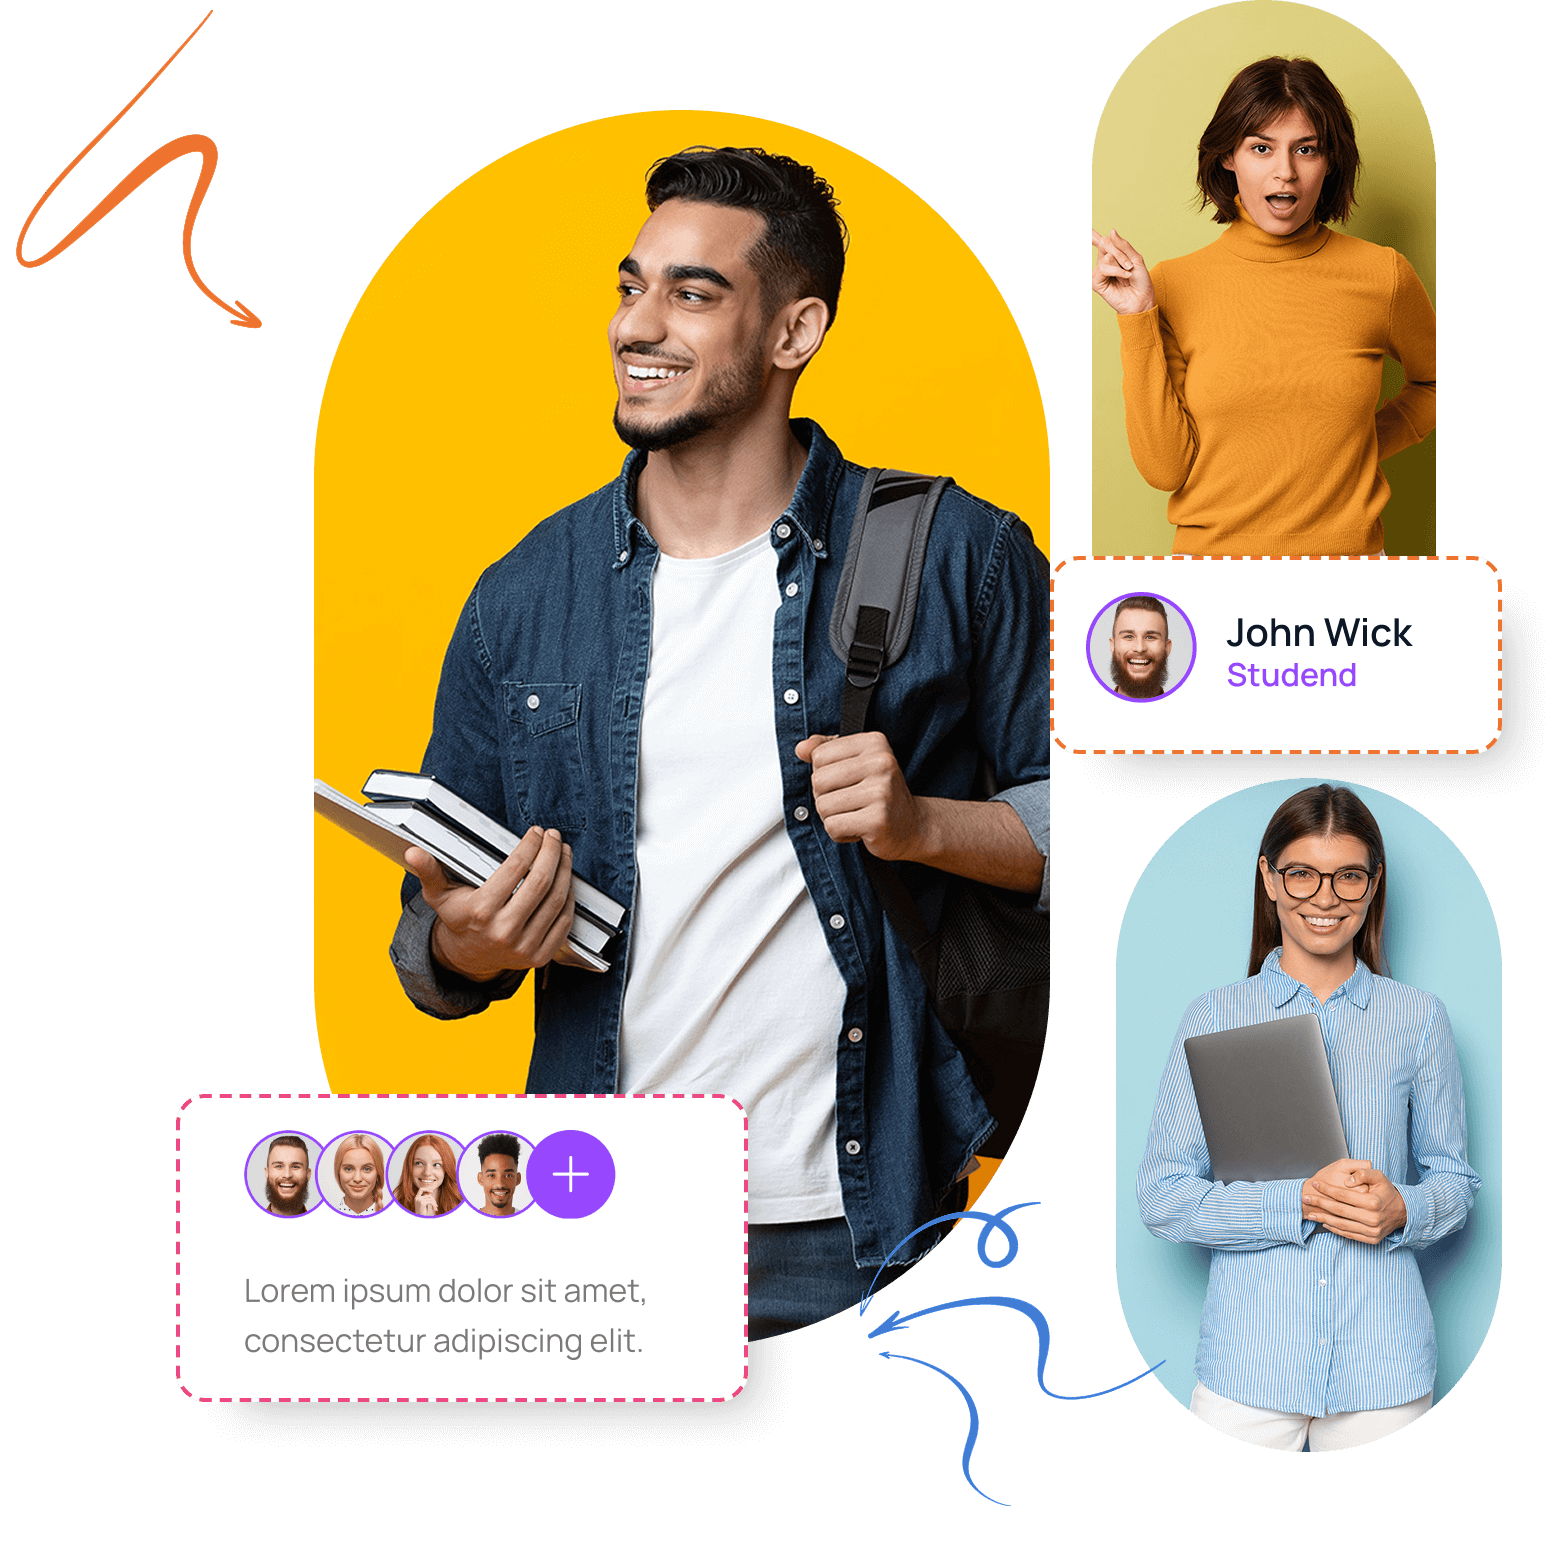
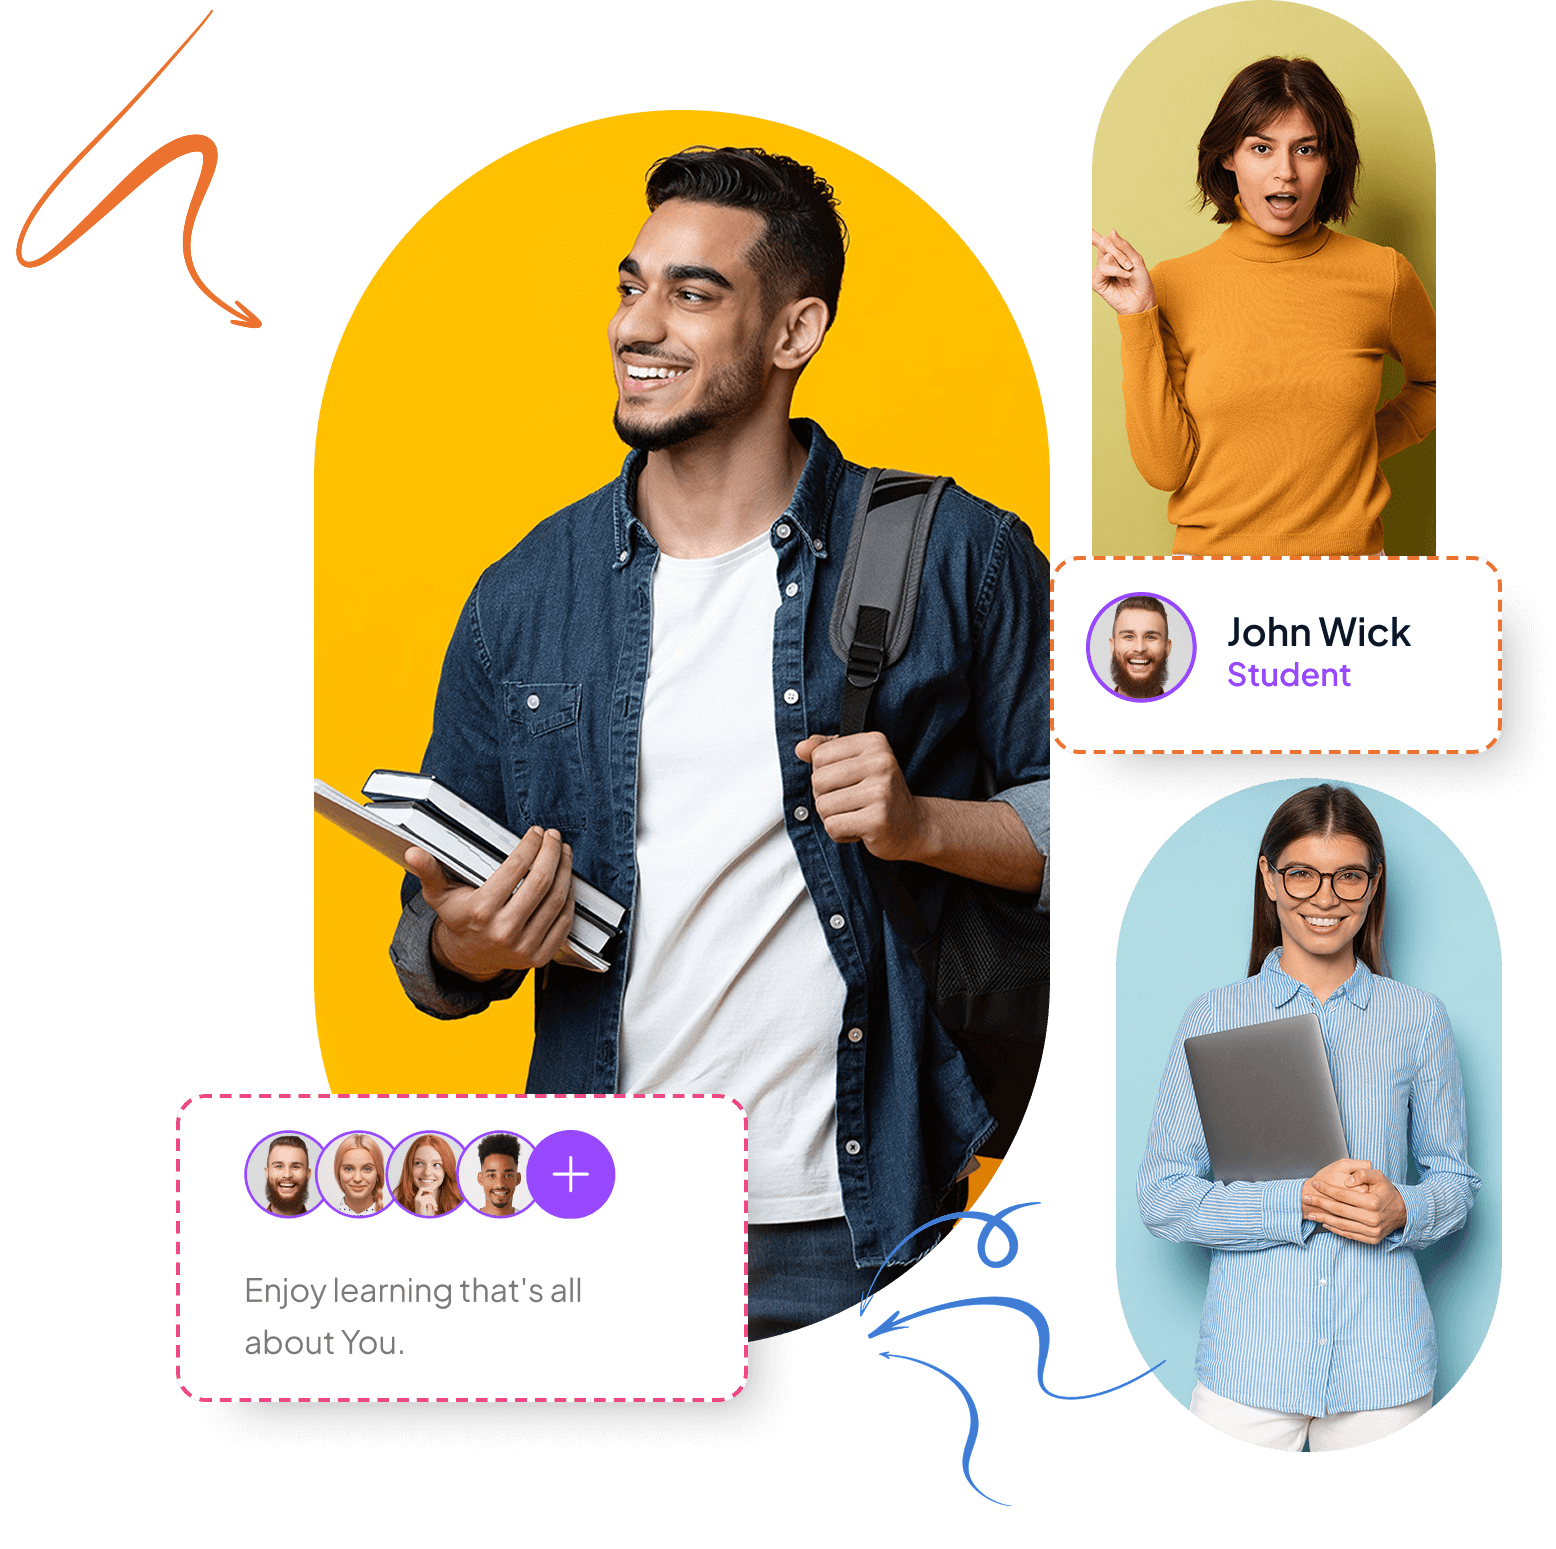
fix: all copywriting excep footer and discount and form tutor register

Changed region(s): [[0.1542, 0.8057, 0.401, 0.8986], [0.7712, 0.4028, 0.8946, 0.4648]]

diff --git a/constants/en.js b/constants/en.js
@@ -2,15 +2,15 @@
  * @Author: danteclericuzio
  * @Date: 2025-03-11 13:47:53
  * @Last Modified by: danteclericuzio
- * @Last Modified time: 2025-04-18 21:35:04
+ * @Last Modified time: 2025-04-24 23:54:08
  */
 
 export const Home = {
     hero: {
         title1: 'Learn Everyday & Any New Language Online with Top',
         title2: 'Instructors.',
-        subtitle: 'Language learning made easy and fun—tailored just for you!',
-        placeholder: 'Try English Tutor',
+        subtitle: 'Language learning made easy and fun Personalized just for you!',
+        placeholder: 'Try “Learn English”',
         buttonSearch: 'Search Now'
     },
     carousel: {
@@ -43,15 +43,15 @@ export const Home = {
     },
     looking: {
         title: 'Teachers & Students',
-        subtitle: 'What you looking for?',
-        teachTitle: 'Do you want to teach here?',
-        learnTitle: 'Do you want to learn here?',
-        teachDesc: 'Lorem ipsum dolor sit amet, consetetur sadipscing elitr, sed di nonumy eirmod tempor invidunt ut labore et dolore magn aliq erat.',
-        learnDesc: 'Lorem ipsum dolor sit amet, consetetur sadipscing elitr, sed di nonumy eirmod tempor invidunt ut labore et dolore magn aliq erat.',
+        subtitle: 'What are you waiting for?',
+        teachTitle: 'Apply as Instructors',
+        learnTitle: 'Apply as Students',
+        teachDesc: "Grow your reach and make a real difference in student's lives by teaching on our platform, benefiting from our supportive community and expanding your professional horizons.",
+        learnDesc: "Unlock your potential with our platform designed for student growth, offering expert guidance to make a real impact in your future studies and career through confident language skills.",
         registerButton: 'Register Now'
     },
     category: {
-        title: 'Browse top category',
+        title: 'Browse Top Categories',
         english: {
             title: 'English',
             nums: '63,476 Courses'
@@ -129,11 +129,13 @@ export const Home = {
         oneHeadingBefore: "Find a tutor",
         oneHeadingHighlight: "",
         oneHeadingAfter: "",
-        oneDesc: "Browse tutors and see their background, experience and student feedback. And book your class.",
+        oneDesc: "Browse tutors and see their backgrounds, experiences, and student's feedback. And book your class.",
         twoHeadingBefore: "Choose a time and book a class",
         twoHeadingHighlight: "",
         twoHeadingAfter: "",
-        twoDesc: "Once you’ve bought a lesson, choose a time slot and book your class. Cancel or reschedule up to 12 hours before your class.",
+        twoDescBefore: "Once you’ve bought a lesson, choose a time slot and book your class. Cancel or reschedule up to",
+        twoDescHighlight: " 12 hours ",
+        twoDescAfter: "before your class.",
         threeHeadingBefore: "Learn when you want, from where you want",
         threeHeadingHighlight: "",
         threeHeadingAfter: "",
@@ -159,23 +161,23 @@ export const Home = {
         teacherThree: 'Kevin Duncan- IELTS Specialist',
     },
     heroBottom: {
-        title: 'You can be a great tutor',
+        title: 'Be a Great Teacher At Lingo Foundry',
         list: [
-            'Set your own prices',
-            'Be your own boss',
-            'Work from home, and on your schedule'
+            {title: 'Global Reach', desc: 'Connect with students from all over the world'},
+            {title: 'Flexible Work Hours', desc: 'Work from home, and on your schedule'},
+            {title: 'Competitive Earnings', desc: 'Set your own prices, and be your own boss'},
         ],
-        button: 'Join us'
+        button: 'Apply to teach'
     }
 }
 
 export const FindTutor = {
     hero: {
-        title1: 'Online Tutoring or',
-        title2: 'Tutors Near',
-        title3: 'Me, Classes',
-        subtitle: 'Study language with a teacher who is just focused on you!',
-        placeholder: 'Try English Tutor',
+        title1: 'Online Tutoring,',
+        title2: 'Tutors Near Me,',
+        title3: 'and Classes',
+        subtitle: 'Your dedicated language teacher, your path to fluency.',
+        placeholder: 'Try “Learn English”',
         buttonSearch: 'Search Now'
     },
     faq: {
@@ -224,7 +226,7 @@ export const FooterData = {
         contactUs: 'Contact Us',
         quickLinks: 'Quick Links',
         feature: 'Features',
-        address: 'Lorem ipsum dolor sit amet, consetetur sadip scing elitr, seddi nonumy eirmod tempor invi dunt ut labore lorem ipsum.'
+        address: 'Language learning platform made easy & fun Connecting Top Instructors with students'
     },
     list1: [
         {
@@ -375,15 +377,19 @@ export const FooterData = {
         },
         {
             href: '/',
-            title: 'Explore Pages'
+            title: 'Explore out Tutors'
         },
         {
             href: '/',
-            title: 'Our Services'
+            title: 'Online Tutoring FAQ'
         },
         {
             href: '/',
-            title: 'Destinations'
+            title: 'Hear What They Said'
+        },
+        {
+            href: '/',
+            title: 'Why Choose Lingo Foundry?'
         }
     ],
     features: [

diff --git a/components/organisms/tutor-detail.js b/components/organisms/tutor-detail.js
@@ -2,10 +2,11 @@
  * @Author: danteclericuzio
  * @Date: 2025-03-13 13:17:29
  * @Last Modified by: danteclericuzio
- * @Last Modified time: 2025-04-14 23:10:35
+ * @Last Modified time: 2025-04-25 00:06:11
  */
 
 "use client";
+import { RiErrorWarningLine } from "react-icons/ri";
 import {toast} from "react-toastify";
 import {useParams, useRouter} from "next/navigation";
 import React, {useState} from "react";
@@ -145,7 +146,7 @@ export default function TutorDetail() {
     return (
         <div className="lingo-container flex flex-col lg:flex-row pt-[80px] sm:pt-[103.61px]">
             {/* cart modal */}
-            {openCart && (
+            {!openCart && (
                 <div className="fixed inset-0 bg-[#00000070] flex items-center justify-center z-50" onClose={handleOpenCart}>
                     <div className="bg-white rounded-[8px] p-6 shadow-lg flex flex-col">
                         <span className="text-[24px] font-semibold mb-4">Add to Cart</span>
@@ -156,10 +157,12 @@ export default function TutorDetail() {
                                 <span className="text-[16px] font-medium">Subject</span>
                                 <span className="text-[16px] font-medium ml-[12px]">Level</span>
                                 <span className="text-[16px] font-medium ml-[36px]">Session</span>
+                                <span className="text-[16px] font-medium ml-[24px]">Discount</span>
                             </div>
                             {languageLevel.map((data, index) => {
                                 const bgColor = bgColors[index % bgColors.length];
                                 const sessions   = sessionsByIndex[index] ?? data.minSession;
+                                const discount = sessions >= 10 ? '10' : '0';
                                 const handleMinus = () => {
                                     if (sessions > data.minSession) {
                                       changeSessions(index, -1);
@@ -193,10 +196,19 @@ export default function TutorDetail() {
                                                 +
                                             </button>
                                         </div>
+                                        <div className="flex items-center border rounded">
+                                            <input type="text" value={`${discount} %`} readOnly className="w-[85px] text-center outline-none"/>
+                                        </div>
                                     </div>
                                 )
                             })}
                         </div>
+                        {selectedIndexes.length === 0 && (
+                            <div className="flex items-center gap-2 mb-4">
+                                <RiErrorWarningLine className="text-[#E35D33]"/>
+                                <span>Please select at least one subject</span>
+                            </div>
+                        )}
                         <div className="flex justify-center gap-4">
                             <button
                                 onClick={handleOpenCart}
@@ -205,8 +217,12 @@ export default function TutorDetail() {
                                 Cancel
                             </button>
                             <button
+                                disabled={selectedIndexes.length === 0}
                                 onClick={handleAddToCart}
-                                className="cursor-pointer rounded-[8px] text-[18px] font-semibold text-white justify-center items-center flex py-[10px] w-full bg-[#E35D33]"
+                                className={`
+                                    cursor-pointer rounded-[8px] text-[18px] font-semibold text-white justify-center items-center flex py-[10px] w-full
+                                    ${selectedIndexes.length === 0 ? "opacity-50 cursor-not-allowed bg-gray-500" : "bg-[#E35D33] "}
+                                    `}
                             >
                                 Yes, add it
                             </button>

diff --git a/components/organisms/footer.js b/components/organisms/footer.js
@@ -2,7 +2,7 @@
  * @Author: danteclericuzio
  * @Date: 2025-03-11 13:48:30
  * @Last Modified by: danteclericuzio
- * @Last Modified time: 2025-04-18 21:39:13
+ * @Last Modified time: 2025-04-24 23:41:59
  */
 
 import { FooterData } from '@/constants/en'
@@ -107,20 +107,6 @@ export default function Footer() {
                             </div>
                         </div>
                         <div className='flex flex-col text-[14px] md:text-[16px]'>
-                            <span className='mb-[15px] md:mb-[35px] font-semibold'>{title.contactUs}</span>
-                            {contactUs.map((item, index) => {
-                                return (
-                                    <Link
-                                        key={index} 
-                                        href={item.href}
-                                        className='cursor-pointer mb-[12px] text-[#A3A3A3]'
-                                    >
-                                        {item.title}
-                                    </Link>
-                                )}
-                            )}
-                        </div>
-                        <div className='flex flex-col text-[14px] md:text-[16px]'>
                             <span className='mb-[15px] md:mb-[35px] font-semibold'>{title.quickLinks}</span>
                             {quickLinks.map((item, index) => {
                                 return (
@@ -137,6 +123,20 @@ export default function Footer() {
                         <div className='flex flex-col text-[14px] md:text-[16px]'>
                             <span className='mb-[15px] md:mb-[35px] font-semibold'>{title.feature}</span>
                             {features.map((item, index) => {
+                                return (
+                                    <Link
+                                        key={index} 
+                                        href={item.href}
+                                        className='cursor-pointer mb-[12px] text-[#A3A3A3]'
+                                    >
+                                        {item.title}
+                                    </Link>
+                                )}
+                            )}
+                        </div>
+                        <div className='flex flex-col text-[14px] md:text-[16px]'>
+                            <span className='mb-[15px] md:mb-[35px] font-semibold'>{title.contactUs}</span>
+                            {contactUs.map((item, index) => {
                                 return (
                                     <Link
                                         key={index} 

diff --git a/components/organisms/hero-bottom.js b/components/organisms/hero-bottom.js
@@ -2,7 +2,7 @@
  * @Author: danteclericuzio
  * @Date: 2025-03-15 16:47:13
  * @Last Modified by: danteclericuzio
- * @Last Modified time: 2025-04-06 16:43:05
+ * @Last Modified time: 2025-04-24 23:39:36
  */
 
 "use client"
@@ -22,10 +22,13 @@ export default function HeroBottom() {
                 <TitleText text={heroBottom.title}/>
             </div>
             <div className="animation-effect text-[14px] sm:text-[16px] md:text-[18px] flex lg:hidden flex-col mb-[20px] ">
-                <ol className="list-decimal list-inside">
-                {heroBottom.list.map((item, idx) => (
-                    <li key={idx}>{item}</li>
-                ))}
+                <ol className="list-decimal list-inside my-[10px] space-y-2">
+                    {heroBottom.list.map((item, idx) => (
+                        <div key={idx}>
+                            <li className='font-semibold'>{item.title}</li>
+                            <span>{item.desc}</span>
+                        </div>  
+                    ))}
                 </ol>
             </div>
             <div 
@@ -41,11 +44,14 @@ export default function HeroBottom() {
                 rounded-[25px] md:rounded-[50px]
                 "
             >   
-                <div className="animation-effect p-[50px] hidden lg:flex flex-col absolute w-[540px] h-[400px] bg-[#F9E8E2] lg:bottom-[30px] xl:bottom-[100px] right-[30px]">
+                <div className="animation-effect py-[25px] px-[50px] hidden lg:flex flex-col absolute w-[540px] h-[430px] bg-[#F9E8E2] lg:bottom-[30px] xl:bottom-[100px] right-[30px]">
                         <TitleText text={heroBottom.title}/>
-                        <ol className="list-decimal list-inside my-[20px]">
+                        <ol className="list-decimal list-inside my-[10px] space-y-2">
                             {heroBottom.list.map((item, idx) => (
-                                <li key={idx}>{item}</li>
+                                <div key={idx}>
+                                    <li className='font-semibold'>{item.title}</li>
+                                    <span>{item.desc}</span>
+                                </div>  
                             ))}
                         </ol>
                         <div>

diff --git a/components/organisms/how.js b/components/organisms/how.js
@@ -2,7 +2,7 @@
  * @Author: danteclericuzio
  * @Date: 2025-03-14 14:21:25
  * @Last Modified by: danteclericuzio
- * @Last Modified time: 2025-03-18 16:36:30
+ * @Last Modified time: 2025-04-24 23:50:40
  */
 
 import { TitleText } from "@/components/atoms/title";
@@ -25,15 +25,15 @@ export default function How() {
           description: how.oneDesc
         },
         {
-          id: 2,
-          image: "/assets/how/two.png",
-          altImage: "two-pic",
-          icon: "/assets/how/two.svg",
-          altIcon: "two-num",
-          headingBefore: how.twoHeadingBefore,
-          headingHighlight: how.twoHeadingHighlight,
-          headingAfter: how.twoHeadingAfter,
-          description: how.twoDesc,
+            id: 2,
+            image: "/assets/how/two.png",
+            altImage: "two-pic",
+            icon: "/assets/how/two.svg",
+            altIcon: "two-num",
+            headingBefore: how.twoHeadingBefore,
+            descriptionBefore: how.twoDescBefore,
+            descriptionHighlight: how.twoDescHighlight,
+            descriptionAfter: how.twoDescAfter
         },
         {
           id: 3,
